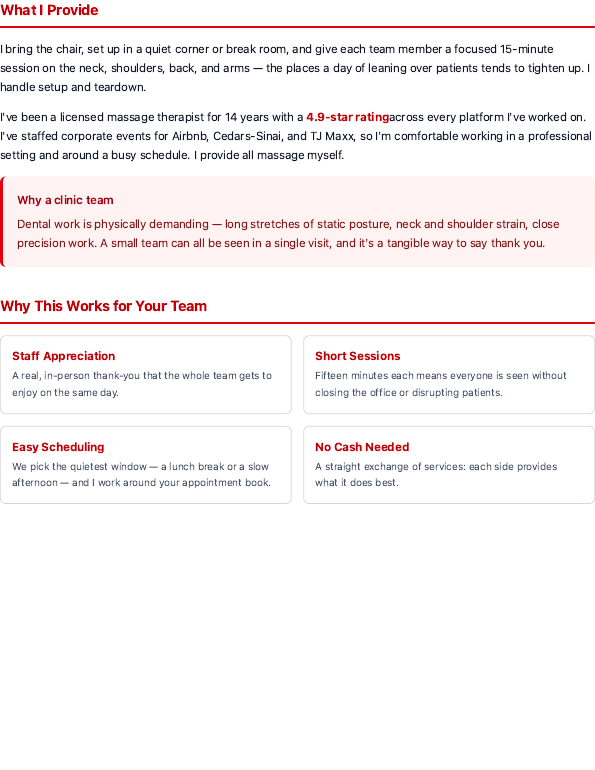
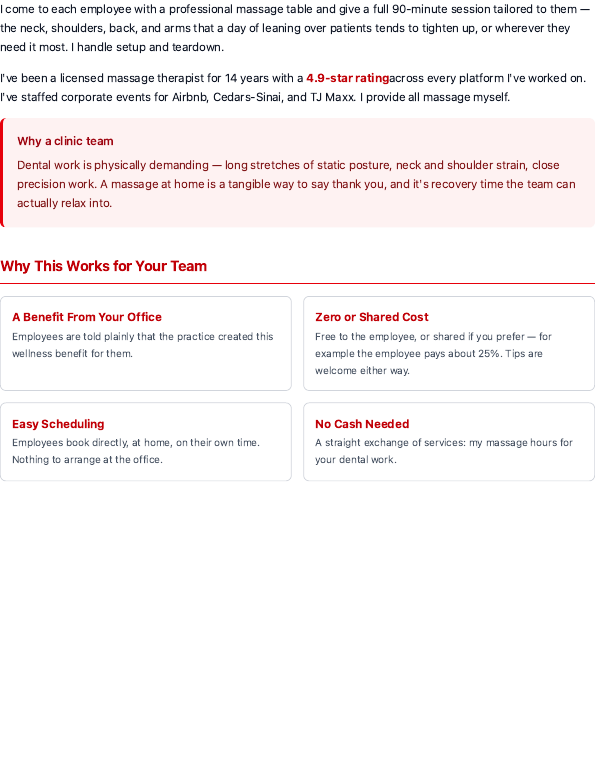
docs(pr): refresh evidence for in-home rescope; hide site chrome in PDF

Changed region(s): [[0.0, 0.0, 1.0, 0.6545], [0.9983, 0.4987, 1.0, 0.561], [0.9983, 0.6234, 1.0, 0.6545]]

diff --git a/app/dental-exchange/proposal/page.tsx b/app/dental-exchange/proposal/page.tsx
@@ -28,7 +28,10 @@ export default async function ProposalPage({
   if (token !== PROPOSAL_TOKEN) notFound()
 
   return (
-    <Box className="mx-auto max-w-3xl px-6 py-12 font-sans text-gray-800 print:max-w-none print:px-0 print:py-0">
+    <Box
+      data-proposal
+      className="mx-auto max-w-3xl px-6 py-12 font-sans text-gray-800 print:max-w-none print:px-0 print:py-0"
+    >
       <header className="mb-12 flex items-start justify-between border-b-4 border-primary-600 pb-8">
         <Box>
           <H1 className="text-3xl font-bold text-gray-900 print:text-2xl">

diff --git a/scripts/render-dental-proposal-pdf.ts b/scripts/render-dental-proposal-pdf.ts
@@ -23,6 +23,9 @@ async function main() {
   })
   const page = await browser.newPage()
   await page.goto(PROPOSAL_URL, { waitUntil: 'networkidle0' })
+  await page.addStyleTag({
+    content: ':is(header, footer, nav):not([data-proposal] *) { display: none !important }',
+  })
   await page.pdf({
     path: PDF_PATH,
     format: 'Letter',
